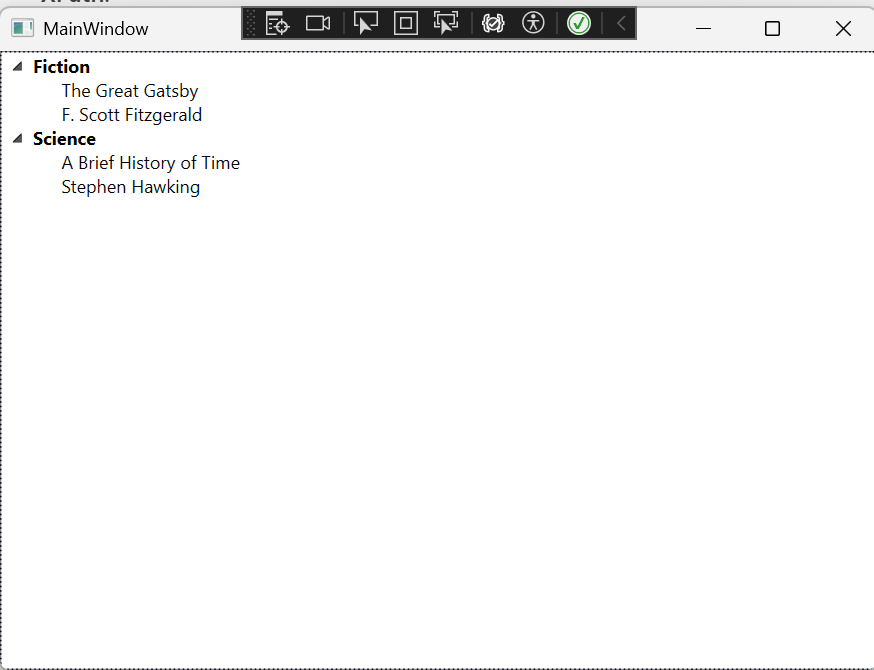
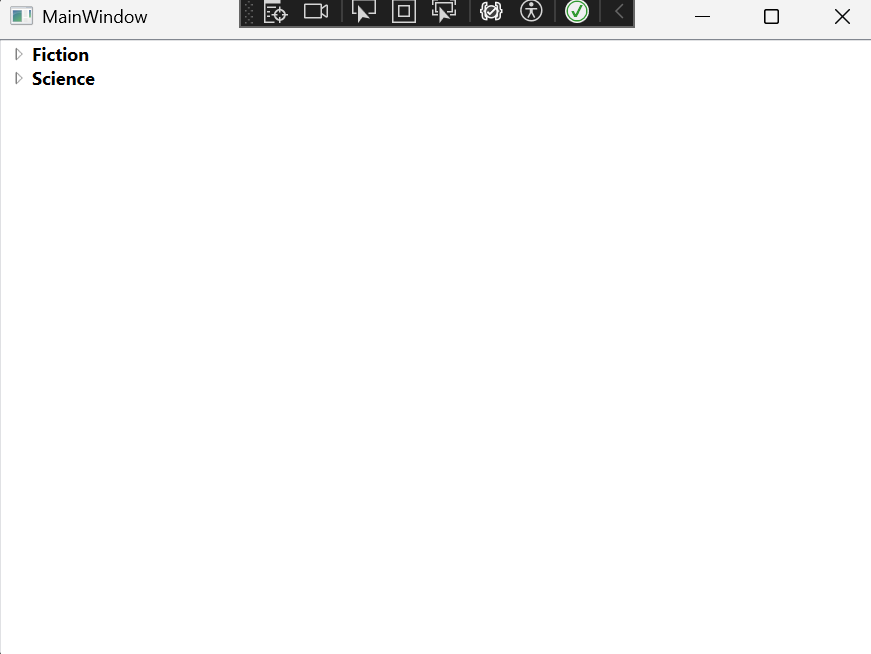
expand all tree nodes

Changed region(s): [[0.0, 0.0, 1.0, 0.3058], [0.0, 0.9786, 1.0, 1.0]]

diff --git a/WpfTreeFromXml/MainWindow.xaml b/WpfTreeFromXml/MainWindow.xaml
@@ -13,7 +13,7 @@
 
     <Grid>
 
-        <TreeView ItemsSource="{Binding Source={StaticResource BooksData}, XPath=Book}">
+        <TreeView x:Name="DemoTreeView" ItemsSource="{Binding Source={StaticResource BooksData}, XPath=Book}">
             <TreeView.ItemTemplate>
                 <HierarchicalDataTemplate ItemsSource="{Binding XPath=*}">
                     <TextBlock Text="{Binding XPath=@Category}" FontWeight="Bold"/>

diff --git a/WpfTreeFromXml/MainWindow.xaml.cs b/WpfTreeFromXml/MainWindow.xaml.cs
@@ -8,6 +8,8 @@ using System.Windows.Media;
 using System.Windows.Media.Imaging;
 using System.Windows.Navigation;
 using System.Windows.Shapes;
+using System.Windows.Threading;
+using System.Xml;
 
 namespace WpfTreeFromXml
 {
@@ -19,6 +21,30 @@ namespace WpfTreeFromXml
         public MainWindow()
         {
             InitializeComponent();
+
+            // BooksData is the resource key for the XmlDataProvider you declared in XAML.
+            // It’s basically the name you give to the XML data source so you can reference it later in bindings or code-behind.
+            var provider = (XmlDataProvider)FindResource("BooksData");
+            provider.DataChanged += Provider_DataChanged;
+
         }
+
+        // after XML data got loaded into the XmlDataProvider, expand all tree nodes
+        private void Provider_DataChanged(object sender, EventArgs e)
+        {
+            // Dispatcher ensures UI thread execution
+            Dispatcher.BeginInvoke(new Action(() =>
+            {
+                foreach (var item in DemoTreeView.Items)
+                {
+                    if (item is XmlElement)
+                    {
+                        var container = DemoTreeView.ItemContainerGenerator.ContainerFromItem(item) as TreeViewItem;
+                        container?.ExpandSubtree();
+                    }
+                }
+            }), DispatcherPriority.Background);
+        }
+
     }
 }

diff --git a/ReadMe.md b/ReadMe.md
@@ -4,4 +4,7 @@ Source code for this book can be downloaded at the following website:
 informit.com/title/9780672330339
 
 Result App Screenshot:
-![Result Image](./AppScreenshot.png)
+![Result App Image](./AppScreenshot.png)
+
+Example from the book looks like this:
+![Book Example Image](./ExampleFromTheBook.png)
